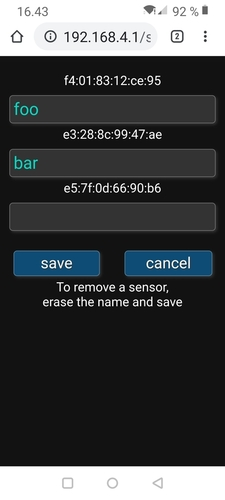
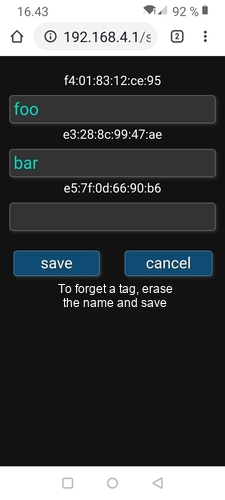
changed text a little

Changed region(s): [[0.1867, 0.54, 0.8089, 0.63]]

diff --git a/data/sensors.html b/data/sensors.html
@@ -14,7 +14,7 @@
 <table>
 <tr><td class="even"><input type="submit" value="save"></td>
 <td class="even"><a class="fakebutton" href="./">cancel</a></td></tr>
-<tr><td colspan=2>To forget a tag,<br />erase the name and save
+<tr><td colspan=2>To forget a tag, erase<br />the name and save
 <input type="hidden" name="counter" value="###COUNTER###">
 </td></tr>
 </table>
